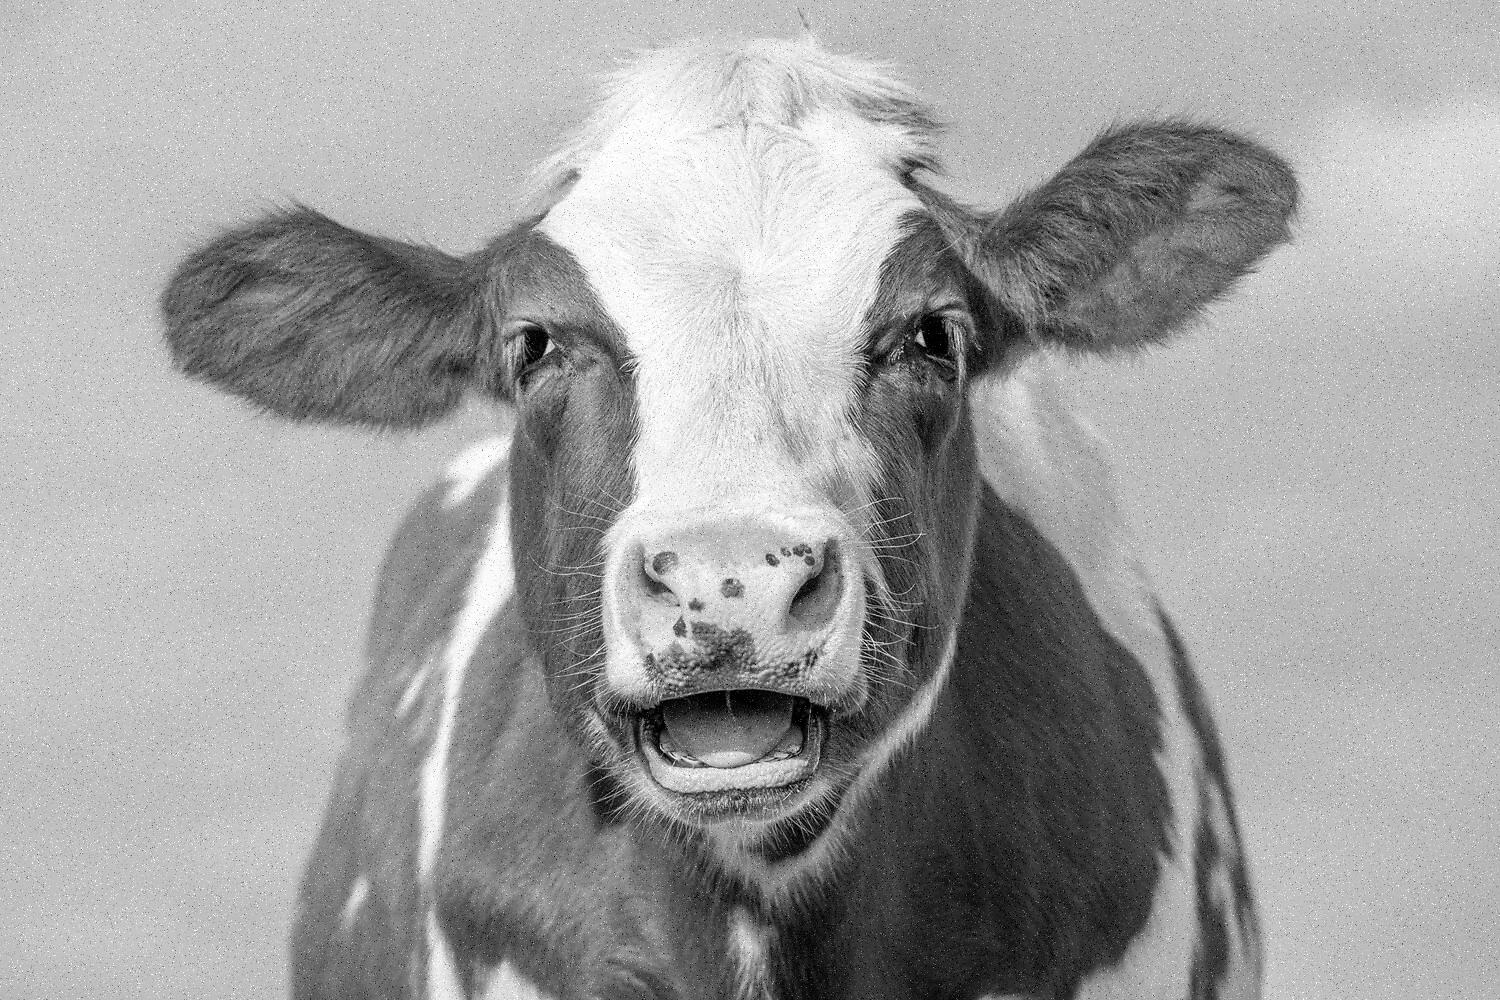
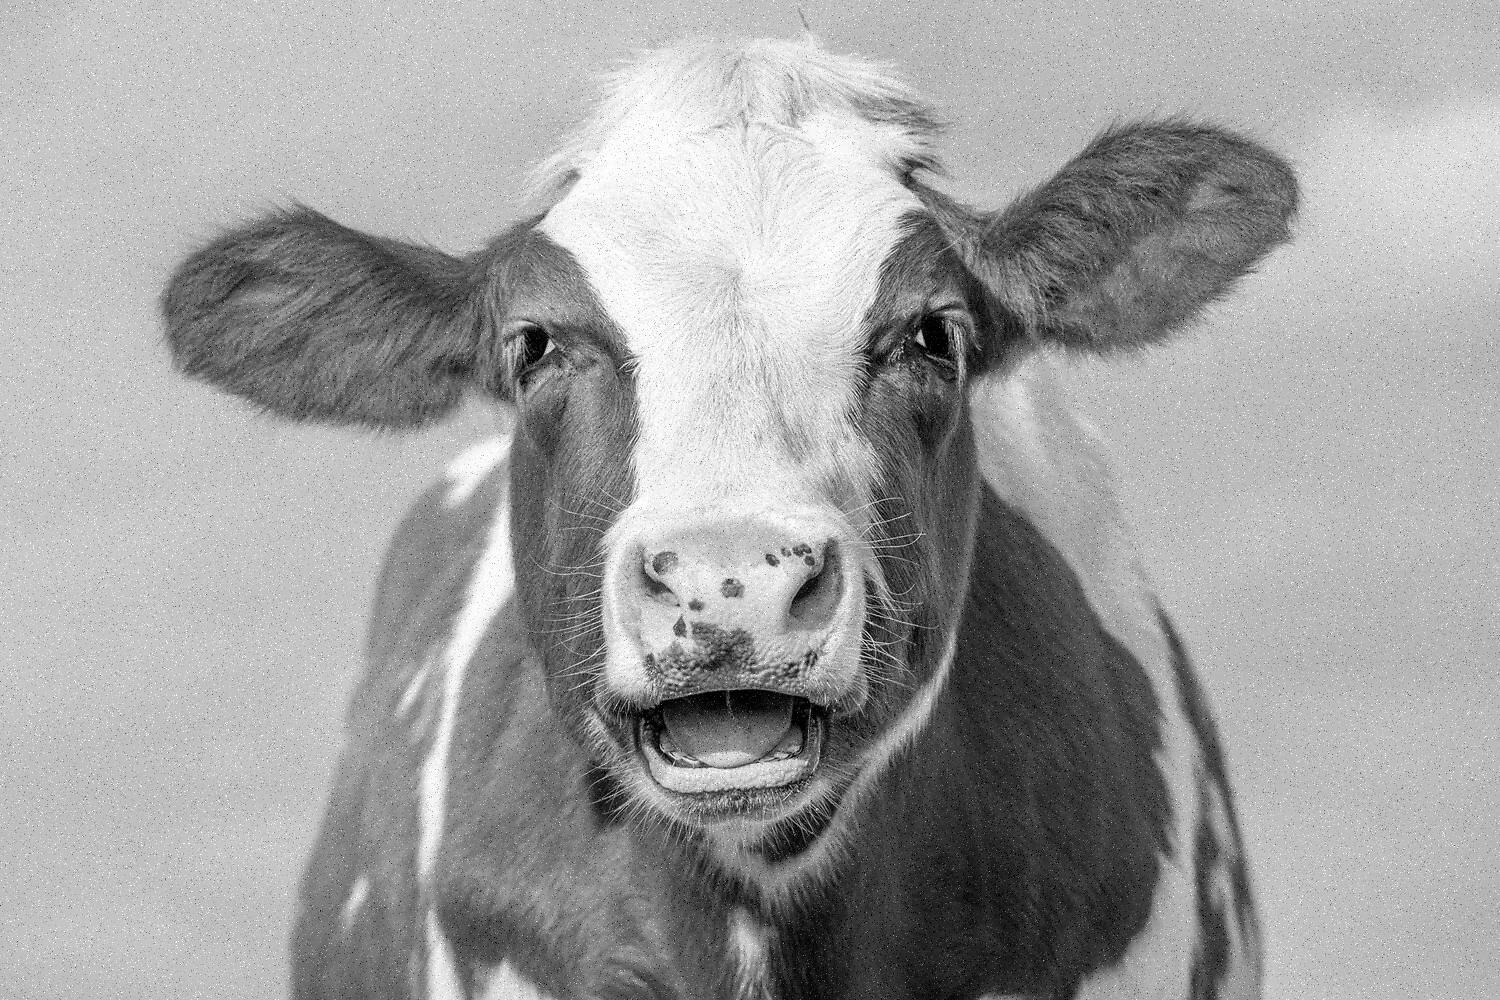
add docs

Changed region(s): [[0.0, 0.0, 1.0, 1.0], [0.46, 0.279, 0.4907, 0.341]]

diff --git a/Project_1.py b/Project_1.py
@@ -73,7 +73,6 @@ def vertical_derivative_filter(img_in):
 #vertical_derivative_filter(img_bw).show()
 
 def derivative_filter(img_in):
-
     w, h = img_in.size
     img_h = horizontal_derivative_filter(img_in)
     img_v = vertical_derivative_filter(img_in)
@@ -135,7 +134,7 @@ class ImageProc:
             res_img = Image.merge('RGB',(r_res,g_res,b_res))
         return res_img
 
-    def derivative_filter(self):
+    def edge_detection(self):
         if self.mode == 'L':
             res_img = derivative_filter(self.img)
         else:
@@ -305,7 +304,7 @@ img_pig = ImageProc("pig.jpeg")
 img_pig.convert()
 img_pig_bw = ImageProc("img_bw.jpg")
 
-#img_cow.contrast_brightness(2,-100).show()
+#img_cow.contrast_brightness(6.2,-100.8).show()
 #img_cow_bw.contrast_brightness(2,-100).show()
 
 #img_cow.invert_image().show()
@@ -324,9 +323,5 @@ img_pig_bw = ImageProc("img_bw.jpg")
 #img_cow_noise.blur_image(8).show()
 #img_cow_bw_noise.blur_image(8).show()
 
-#img_cow.derivative_filter().show()
-#img_cow_bw.derivative_filter().show()
-
-
-
-
+#img_cow.edge_detection().show()
+#img_cow_bw.edge_detection().show()

diff --git a/README.md b/README.md
@@ -2,7 +2,7 @@
 
 This Project contains a Python class ImageProc that provides various image processing functionalities. The class is designed to work with images in both black and white and color formats.
 
-- `__init__(self, filename)`: This is the initializer method for the `ImageProc` class. It takes a string argument `filename` which is the path to the image file. This method loads the image, stores it in the `img` instance variable, and also stores the mode and size of the image, and the separated color channels if the image is in color mode. 
+- `__init__(self, filename)`: This is the initializer method for the `ImageProc` class. It takes a string argument `filename` which is the path to the image file. This method loads the image, stores it in the `img` instance variable, and also stores the mode of the image. 
 
 ```python
 """
@@ -16,8 +16,70 @@ Parameters:
 Attributes:
 - img (Image object): The loaded image.
 - mode (str): The mode of the image ('L' for black and white, 'RGB' for color).
-- w, h (int, int): The width and height of the image.
-- r, g, b (Image object, Image object, Image object): The separated color channels of the image, if the image is in color mode.
+"""
+```
+
+- `convert(self)`: This method converts the image to black and white format and saves it to a file `"img_bw.jpg"`.
+
+```python
+"""
+convert(self)
+
+Converts an image to black and white format and saves it to a file.
+
+Parameters:
+- This function only takes an image as input.
+
+Returns:
+- convert_img (Image object): The converted image.
+- "img_bw.jpg" (file): picture file.
+"""
+
+```
+- `noise_gaussian(self)`: This method noisies the image according to the normal Gaussian distribution. The resulting image is saved to the file `"img_noise.jpg"`.
+```python
+"""
+noise_gaussian(self)
+
+Adds noise to the image using a normal Gaussian distribution.
+
+Parameters:
+- This function only takes an image as input.
+
+Returns:
+- noise_img (Image object): The noises image.
+- "img_noise.jpg" (file): picture file.
+"""
+```
+
+- `contrast_brightness(self, contrast, brightness)`: The method changes the contrast and brightness of the image.
+```python
+"""
+contrast_brightness(self, contrast, brightness)
+
+Changes the contrast and brightness of the image.
+
+Parameters:
+- contrast (float): contrast of the image.
+- brightness (float): brightness of the image.
+
+Returns:
+- img (Image object)
+"""
+```
+
+- `edge_detection(self)`: This method determines the boundaries of objects in an image. First-order image derivatives are determined using the Sobel operator. The magnitude of the total gradient is calculated as the root of the sum of the squares of the first-order derivatives of the image.
+```python
+"""
+edge_detection(self)
+
+Defines the boundaries of objects in an image.
+
+Parameters:
+- This function only takes an image as input.
+
+Returns:
+- img (Image object): Image with edge
 """
 ```
 
